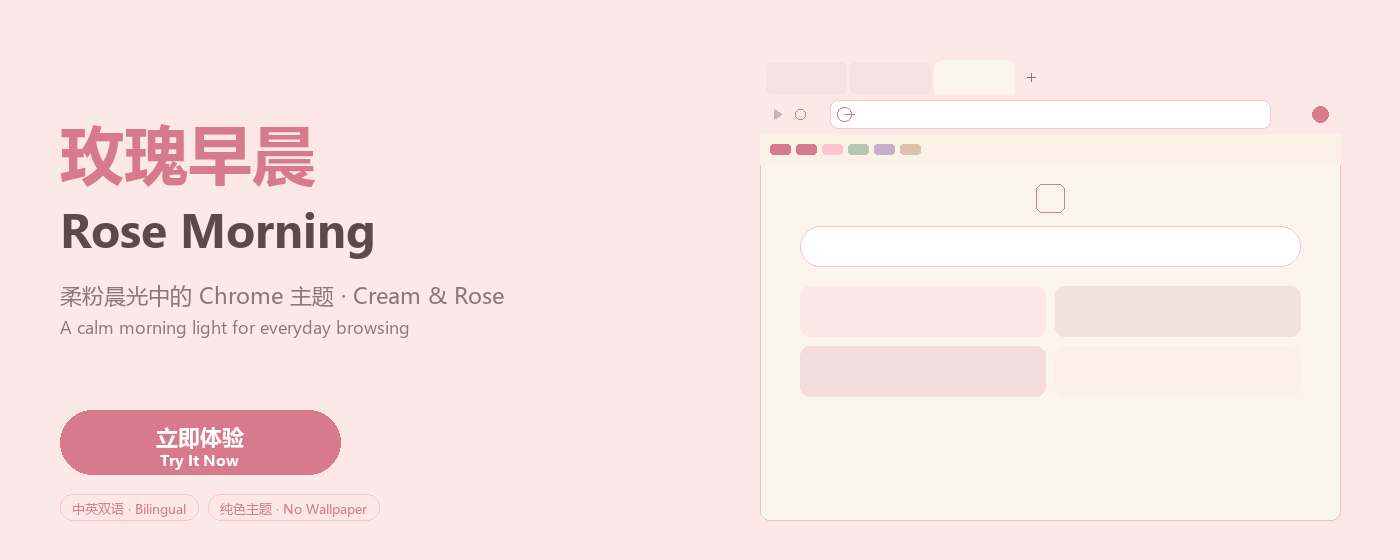
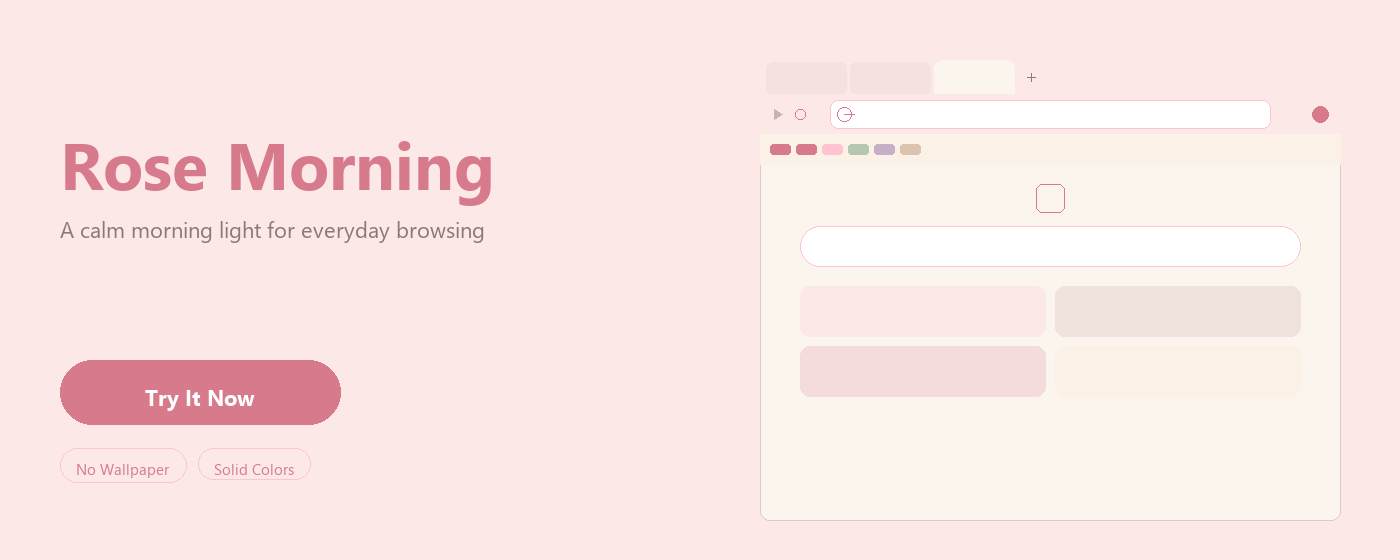
promo: switch to English-only (Chrome theme convention)

diff --git a/scripts/generate-promo.py b/scripts/generate-promo.py
@@ -1,20 +1,20 @@
 """
-生成 Rose Morning Theme 的两个 Chrome Web Store 宣传图块
-- 小型宣传图块: 440 x 280
-- 顶部宣传图块: 1400 x 560
+Generate Rose Morning Theme's two Chrome Web Store promo tiles:
+- Small promo tile: 440 x 280
+- Marquee (top) promo tile: 1400 x 560
 
-规范:
-- 双语(中 + 英同一张图)
-- 按钮文字垂直居中, 字号缩放
-- 段落底边留 >= 12px 安全边距
-- 区块不重叠
-- 卡片偶数网格, gap >= 10px
+NOTE (Chrome THEME convention): Promo tiles for a Chrome THEME are
+English-only (unlike Chrome EXTENSIONS which require bilingual zh+en).
+- Button text vertically centered, font scales with canvas
+- Element bottom edge keeps >= 12px safe margin
+- Blocks do not overlap
+- Even card grid, gap >= 10px
 """
 
 from PIL import Image, ImageDraw, ImageFont
 import os
 
-# --- 主题色 (来自 theme.json) ---
+# --- Theme colors (from theme.json) ---
 CREAM_BG     = (252, 245, 238)  # #FCF5EE  warm cream toolbar
 BLUSH_FRAME  = (251, 232, 231)  # #FBE8E7  soft blush frame
 LIGHT_ROSE   = (247, 221, 222)  # #F7DDDE  active tab
@@ -27,13 +27,11 @@ WHITE        = (255, 255, 255)
 PAPER        = (251, 241, 231)  # #FBF1E7  paper card
 
 
-# --- 字体 (尝试加载系统中文字体; 失败回退到 PIL 默认) ---
+# --- Fonts (English / sans only; Chrome theme promo is English-only) ---
 FONT_PATHS = {
     "sans":   "C:/Windows/Fonts/segoeui.ttf",
     "sans_b": "C:/Windows/Fonts/segoeuib.ttf",
     "sans_sb":"C:/Windows/Fonts/segoeuisl.ttf",  # semilight
-    "cn":     "C:/Windows/Fonts/msyh.ttc",        # 微软雅黑
-    "cn_b":   "C:/Windows/Fonts/msyhbd.ttc",
 }
 
 def load_font(path_key: str, size: int) -> ImageFont.FreeTypeFont:
@@ -75,20 +73,17 @@ def draw_rounded_rect(draw, xy, radius, fill, outline=None, width=1):
 
 
 # ===================================================================
-# Chrome 缩略图绘制
+# Chrome thumbnail drawing
 # ===================================================================
 def draw_chrome_thumbnail(draw, ox, oy, w, h, scale=1.0):
-    """画一个 Chrome 窗口缩略图 (browser chrome + NTP 简化版)
-    scale: 缩放比例, 1.0 = 大图用, 0.36 = 小图用
+    """Draw a Chrome window thumbnail (browser chrome + simplified NTP).
+    scale: zoom ratio, 1.0 = large tile, 0.36 = small tile
     """
-    # 缩放后的尺寸
     tab_h       = int(34 * scale)
     toolbar_h   = int(40 * scale)
     omnibox_h   = int(28 * scale)
     bookmark_h  = int(30 * scale)
-    ntp_indicator_h = int(72 * scale)
 
-    # 窗口整体背景
     draw_rounded_rect(draw, (ox, oy, ox + w, oy + h), int(10*scale), CREAM_BG, outline=(225, 200, 200), width=max(1, int(1*scale)))
 
     cur_y = oy
@@ -98,17 +93,13 @@ def draw_chrome_thumbnail(draw, ox, oy, w, h, scale=1.0):
     tab_x = ox + int(6*scale)
     tab_w = int(80*scale)
     tab_h_each = tab_h - int(2*scale)
-    # 两个 inactive tab
     for i in range(2):
         tx = tab_x + i * (tab_w + int(4*scale))
         draw_rounded_rect(draw, (tx, cur_y + int(2*scale), tx + tab_w, cur_y + tab_h), int(6*scale), (244, 226, 224))
-    # active tab (新标签页)
     active_tx = tab_x + 2 * (tab_w + int(4*scale))
     draw_rounded_rect(draw, (active_tx, cur_y, active_tx + tab_w, cur_y + tab_h + int(4*scale)), int(8*scale), CREAM_BG)
-    # active tab 底边玫粉
     draw.rectangle([active_tx + int(8*scale), cur_y + tab_h_each + int(2*scale),
                     active_tx + tab_w - int(8*scale), cur_y + tab_h_each + int(5*scale)], fill=SOFT_PINK)
-    # 新开 + 按钮
     plus_x = active_tx + tab_w + int(8*scale)
     plus_y = cur_y + int(8*scale)
     plus_size = int(18*scale)
@@ -121,26 +112,21 @@ def draw_chrome_thumbnail(draw, ox, oy, w, h, scale=1.0):
 
     # --- Toolbar ---
     draw.rectangle([ox, cur_y, ox + w, cur_y + toolbar_h], fill=BLUSH_FRAME)
-    # back arrow (灰)
     cx = ox + int(14*scale)
     cy = cur_y + toolbar_h // 2
     draw.polygon([(cx, cy - int(5*scale)), (cx + int(8*scale), cy), (cx, cy + int(5*scale))], fill=(200, 180, 180))
-    # refresh (玫粉)
     cx = ox + int(40*scale)
     draw.ellipse([cx - int(5*scale), cy - int(5*scale), cx + int(5*scale), cy + int(5*scale)], outline=ROSE, width=max(1, int(1.5*scale)))
-    # omnibox
     omnibox_x = ox + int(70*scale)
     omnibox_w = w - int(140*scale)
     draw_rounded_rect(draw, (omnibox_x, cur_y + int(6*scale),
                               omnibox_x + omnibox_w, cur_y + toolbar_h - int(6*scale)),
                       int(8*scale), WHITE, outline=SOFT_PINK, width=max(1, int(1.5*scale)))
-    # Google G (简化)
     cx_g = omnibox_x + int(14*scale)
     cy_g = cur_y + toolbar_h // 2
     draw.ellipse([cx_g - int(7*scale), cy_g - int(7*scale), cx_g + int(7*scale), cy_g + int(7*scale)],
                  outline=ROSE, width=max(1, int(1.5*scale)))
     draw.line([(cx_g, cy_g), (cx_g + int(10*scale), cy_g)], fill=ROSE, width=max(1, int(1.5*scale)))
-    # L 头像 (右侧)
     av_x = ox + w - int(20*scale)
     av_y = cur_y + toolbar_h // 2
     draw.ellipse([av_x - int(8*scale), av_y - int(8*scale), av_x + int(8*scale), av_y + int(8*scale)], fill=ROSE)
@@ -162,21 +148,18 @@ def draw_chrome_thumbnail(draw, ox, oy, w, h, scale=1.0):
                               int(3*scale), color)
         cur_y += bookmark_h
 
-    # --- NTP area (极简): logo + 搜索框 + 4 卡片 2x2 ---
+    # --- NTP area (simplified): logo + search box + 2x2 cards ---
     ntp_x = ox + int(40*scale)
     ntp_w = w - int(80*scale)
     ntp_y = cur_y + int(20*scale)
-    # Logo (圆角方形描边)
     logo_size = int(28*scale)
     lx = ox + w // 2 - logo_size // 2
     ly = ntp_y
     draw_rounded_rect(draw, (lx, ly, lx + logo_size, ly + logo_size), int(6*scale), CREAM_BG, outline=ROSE, width=max(1, int(1.5*scale)))
-    # 搜索框
     search_y = ly + logo_size + int(14*scale)
     search_h = int(40*scale)
     draw_rounded_rect(draw, (ntp_x, search_y, ntp_x + ntp_w, search_y + search_h),
                       int(search_h/2), WHITE, outline=SOFT_PINK, width=max(1, int(1.5*scale)))
-    # 卡片 2x2
     card_y = search_y + search_h + int(20*scale)
     card_gap = int(10*scale)
     card_w = (ntp_w - card_gap) // 2
@@ -192,54 +175,36 @@ def draw_chrome_thumbnail(draw, ox, oy, w, h, scale=1.0):
 
 
 # ===================================================================
-# Promo 图块
+# Promo tiles (English-only for Chrome themes)
 # ===================================================================
 def draw_440x280():
     W, H = 440, 280
     img = Image.new("RGB", (W, H), BLUSH_FRAME)
     draw = ImageDraw.Draw(img)
 
-    # --- 左侧文案区 ---
-    # 标题: "玫瑰早晨"  (中文)
-    title_zh = load_font("cn_b", 30)
-    draw.text((24, 60), "玫瑰早晨", font=title_zh, fill=ROSE)
-    # 标题: "Rose Morning" (英文)
-    title_en = load_font("sans_b", 22)
-    draw.text((24, 100), "Rose Morning", font=title_en, fill=TEXT_DARK)
-    # 副标题
-    sub_zh = load_font("cn", 12)
-    draw.text((24, 138), "柔粉晨光中的 Chrome 主题", font=sub_zh, fill=TEXT_MUTED)
-    sub_en = load_font("sans", 11)
-    draw.text((24, 158), "A cream & rose Chrome theme", font=sub_en, fill=TEXT_MUTED)
+    # --- Left text block ---
+    # Title: fit to 200px max width so it doesn't collide with right thumbnail
+    title_max_w = 200
+    title_en = fit_text(draw, "Rose Morning", "sans_b", title_max_w, 34, min_size=20)
+    draw.text((24, 56), "Rose Morning", font=title_en, fill=ROSE)
+    sub_en = load_font("sans", 13)
+    draw.text((24, 104), "A cream & rose Chrome theme", font=sub_en, fill=TEXT_MUTED)
 
-    # --- CTA 按钮 (双语, 垂直居中) ---
-    btn_x, btn_y = 24, 200
-    btn_w, btn_h = 188, 44
+    # --- CTA button (single line, vertically centered) ---
+    btn_x, btn_y = 24, 196
+    btn_w, btn_h = 180, 44
     btn_center_y = btn_y + btn_h // 2
     draw_rounded_rect(draw, (btn_x, btn_y, btn_x + btn_w, btn_y + btn_h), 22, ROSE)
-    # 中文 (顶部)
-    btn_zh = load_font("cn_b", 14)
-    btn_en = load_font("sans_b", 11)
-    zh_w, zh_h = text_size(draw, "立即使用 · Try It Now".split(" · ")[0], btn_zh)
-    en_w, en_h = text_size(draw, "Try It Now", btn_en)
-    # 单行布局, 居中显示
-    label_w, label_h = text_size(draw, "立即体验 · Try It Now", btn_zh)
-    # 改为两行布局避免太宽
-    label1, label2 = "立即体验", "Try It Now"
-    l1w, l1h = text_size(draw, label1, btn_zh)
-    l2w, l2h = text_size(draw, label2, btn_en)
-    line_gap = 2
-    total_h = l1h + line_gap + l2h
-    top_y = btn_center_y - total_h // 2
-    draw.text((btn_x + (btn_w - l1w)//2, top_y), label1, font=btn_zh, fill=WHITE)
-    draw.text((btn_x + (btn_w - l2w)//2, top_y + l1h + line_gap), label2, font=btn_en, fill=WHITE)
+    btn_en = load_font("sans_b", 16)
+    l_w, l_h = text_size(draw, "Try It Now", btn_en)
+    draw.text((btn_x + (btn_w - l_w)//2, btn_center_y - l_h//2), "Try It Now", font=btn_en, fill=WHITE)
 
     # 验证按钮底边 <= H - 12
     assert btn_y + btn_h <= H - 12, f"按钮底 {btn_y + btn_h} 超出画布 {H - 12}"
 
-    # --- 右侧 Chrome 缩略图 ---
-    thumb_x, thumb_y = 240, 20
-    thumb_w, thumb_h = 188, 240
+    # --- Right Chrome thumbnail ---
+    thumb_x, thumb_y = 236, 20
+    thumb_w, thumb_h = 192, 240
     draw_chrome_thumbnail(draw, thumb_x, thumb_y, thumb_w, thumb_h, scale=0.55)
 
     img.save("store-assets/promo/440x280.png", "PNG", optimize=True)
@@ -251,62 +216,45 @@ def draw_1400x560():
     img = Image.new("RGB", (W, H), BLUSH_FRAME)
     draw = ImageDraw.Draw(img)
 
-    # --- 左侧文案区 ---
+    # --- Left text block ---
     pad_x = 60
-    # 主标题中文
-    t_zh = load_font("cn_b", 64)
-    draw.text((pad_x, 110), "玫瑰早晨", font=t_zh, fill=ROSE)
-    # 主标题英文
-    t_en = load_font("sans_b", 48)
-    draw.text((pad_x, 196), "Rose Morning", font=t_en, fill=TEXT_DARK)
-    # 副标题中文
-    s_zh = load_font("cn", 22)
-    draw.text((pad_x, 280), "柔粉晨光中的 Chrome 主题 · Cream & Rose", font=s_zh, fill=TEXT_MUTED)
-    # 副标题英文
-    s_en = load_font("sans", 18)
-    draw.text((pad_x, 314), "A calm morning light for everyday browsing", font=s_en, fill=TEXT_MUTED)
+    t_en = load_font("sans_b", 66)
+    draw.text((pad_x, 118), "Rose Morning", font=t_en, fill=ROSE)
+    s_en = load_font("sans", 22)
+    draw.text((pad_x, 214), "A calm morning light for everyday browsing", font=s_en, fill=TEXT_MUTED)
 
-    # --- CTA 按钮 (双语, 垂直居中) ---
-    btn_x, btn_y = pad_x, 410
+    # --- CTA button (single line, vertically centered) ---
+    btn_x, btn_y = pad_x, 360
     btn_w, btn_h = 280, 64
     btn_center_y = btn_y + btn_h // 2
     draw_rounded_rect(draw, (btn_x, btn_y, btn_x + btn_w, btn_y + btn_h), 32, ROSE)
-    btn_zh = load_font("cn_b", 22)
-    btn_en = load_font("sans_b", 16)
-    label1, label2 = "立即体验", "Try It Now"
-    l1w, l1h = text_size(draw, label1, btn_zh)
-    l2w, l2h = text_size(draw, label2, btn_en)
-    line_gap = 4
-    total_h = l1h + line_gap + l2h
-    top_y = btn_center_y - total_h // 2
-    draw.text((btn_x + (btn_w - l1w)//2, top_y), label1, font=btn_zh, fill=WHITE)
-    draw.text((btn_x + (btn_w - l2w)//2, top_y + l1h + line_gap), label2, font=btn_en, fill=WHITE)
+    btn_en = load_font("sans_b", 22)
+    l_w, l_h = text_size(draw, "Try It Now", btn_en)
+    draw.text((btn_x + (btn_w - l_w)//2, btn_center_y - l_h//2), "Try It Now", font=btn_en, fill=WHITE)
 
-    # --- 装饰小元素: 二级标签 ---
-    tag_y = btn_y + btn_h + 20
-    tag_h = 30
-    tag1 = "中英双语 · Bilingual"
-    tag2 = "纯色主题 · No Wallpaper"
-    tag_font_zh = load_font("cn", 13)
-    tag_font_en = load_font("sans", 12)
-    tag1_w, tag1_h = text_size(draw, tag1, tag_font_zh)
-    tag2_w, tag2_h = text_size(draw, tag2, tag_font_zh)
+    # --- Decorative tags: feature chips (English-only) ---
+    tag_y = btn_y + btn_h + 24
+    tag_h = 40
+    tag1 = "No Wallpaper"
+    tag2 = "Solid Colors"
+    tag_font = load_font("sans", 15)
+    tag1_w, tag1_h = text_size(draw, tag1, tag_font)
+    tag2_w, tag2_h = text_size(draw, tag2, tag_font)
     tag_x = btn_x
-    # 两个 tag 紧贴
-    pad_tag_x = 12
-    pad_tag_y = 6
+    pad_tag_x = 16
+    pad_tag_y = 10
     draw_rounded_rect(draw, (tag_x, tag_y, tag_x + tag1_w + pad_tag_x*2, tag_y + tag1_h + pad_tag_y*2),
-                      14, BLUSH_FRAME, outline=SOFT_PINK)
-    draw.text((tag_x + pad_tag_x, tag_y + pad_tag_y), tag1, font=tag_font_zh, fill=ROSE)
-    tag2_x = tag_x + tag1_w + pad_tag_x*2 + 10
+                      18, BLUSH_FRAME, outline=SOFT_PINK)
+    draw.text((tag_x + pad_tag_x, tag_y + pad_tag_y), tag1, font=tag_font, fill=ROSE)
+    tag2_x = tag_x + tag1_w + pad_tag_x*2 + 12
     draw_rounded_rect(draw, (tag2_x, tag_y, tag2_x + tag2_w + pad_tag_x*2, tag_y + tag2_h + pad_tag_y*2),
-                      14, BLUSH_FRAME, outline=SOFT_PINK)
-    draw.text((tag2_x + pad_tag_x, tag_y + pad_tag_y), tag2, font=tag_font_zh, fill=ROSE)
+                      18, BLUSH_FRAME, outline=SOFT_PINK)
+    draw.text((tag2_x + pad_tag_x, tag_y + pad_tag_y), tag2, font=tag_font, fill=ROSE)
 
     # 验证按钮底边 <= H - 12
     assert btn_y + btn_h <= H - 12, f"按钮底 {btn_y + btn_h} 超出画布 {H - 12}"
 
-    # --- 右侧 Chrome 缩略图 (大图 1.0 scale) ---
+    # --- Right Chrome thumbnail (large, scale 1.0) ---
     thumb_x, thumb_y = 760, 60
     thumb_w, thumb_h = 580, 460
     draw_chrome_thumbnail(draw, thumb_x, thumb_y, thumb_w, thumb_h, scale=1.0)
@@ -319,4 +267,4 @@ if __name__ == "__main__":
     os.makedirs("store-assets/promo", exist_ok=True)
     draw_440x280()
     draw_1400x560()
-    print("\n[DONE] 两张宣传图生成完成")
+    print("\n[DONE] promo tiles generated (English-only)")
